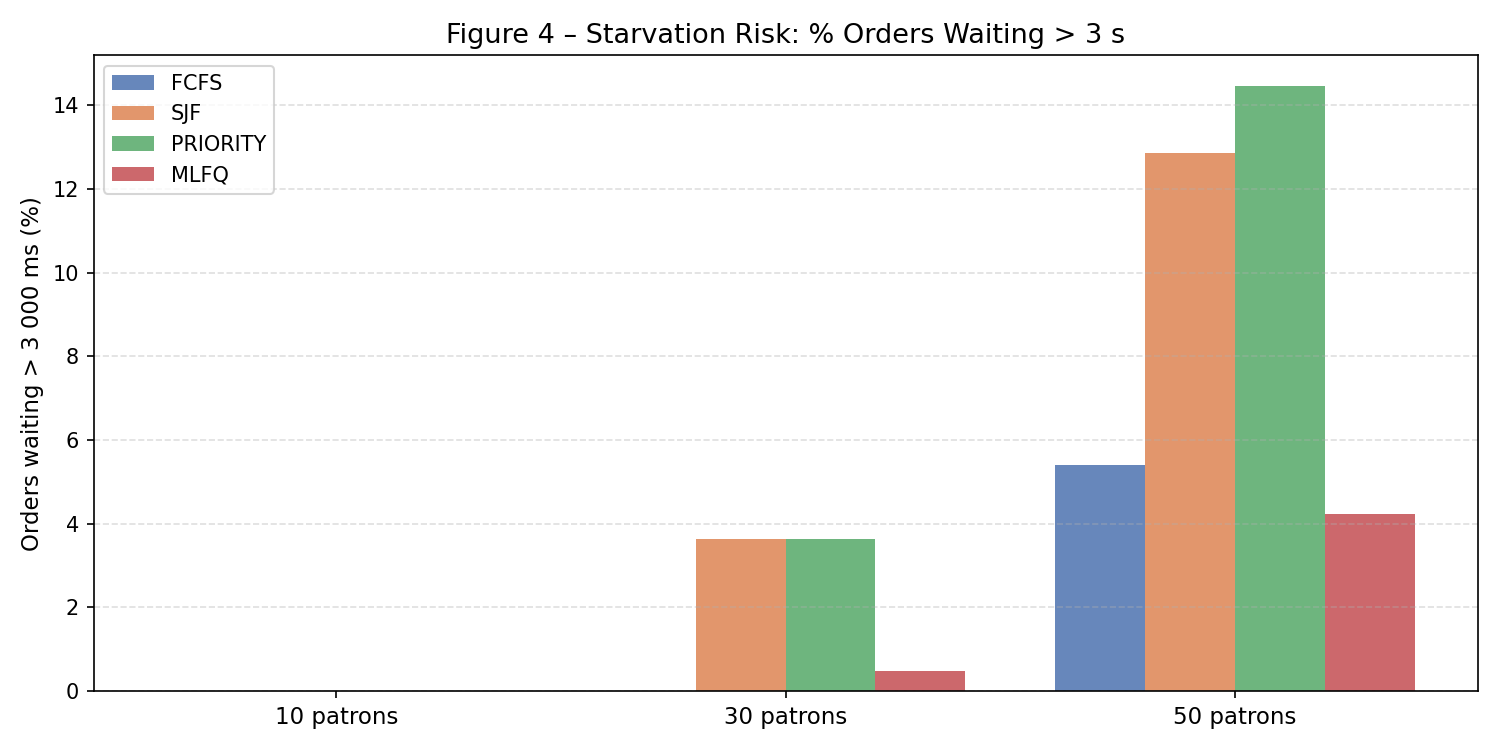
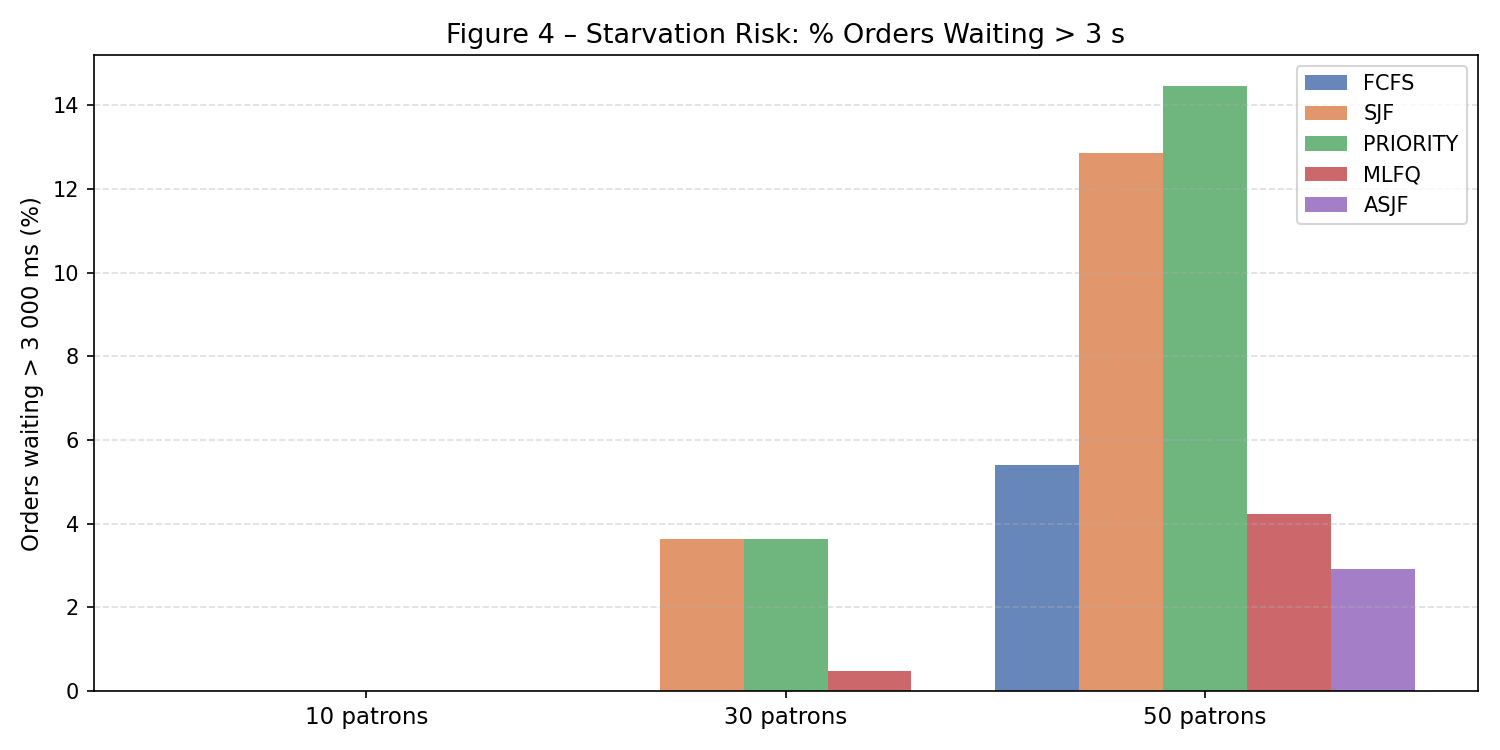
Fixed analyse.py to accomodate additional algorithm test data

diff --git a/analyse.py b/analyse.py
@@ -56,7 +56,7 @@ for patch, sched in zip(bp["boxes"], SCHEDULERS):
     patch.set_facecolor(COLORS[sched])
     patch.set_alpha(0.75)
 
-ax.set_xticks(range(1, 5))
+ax.set_xticks(range(1, len(SCHEDULERS) + 1))
 ax.set_xticklabels(SCHEDULERS, fontsize=12)
 ax.set_ylabel("Wait Time (ms)", fontsize=12)
 ax.set_title("Figure 1 – Wait Time Distribution per Scheduler (all runs)", fontsize=13)
@@ -83,7 +83,7 @@ for patch, sched in zip(bp["boxes"], SCHEDULERS):
     patch.set_facecolor(COLORS[sched])
     patch.set_alpha(0.75)
 
-ax.set_xticks(range(1, 5))
+ax.set_xticks(range(1, len(SCHEDULERS) + 1))
 ax.set_xticklabels(SCHEDULERS, fontsize=12)
 ax.set_ylabel("Turnaround Time (ms)", fontsize=12)
 ax.set_title("Figure 2 – Turnaround Time Distribution per Scheduler (all runs)", fontsize=13)
@@ -137,7 +137,7 @@ THRESHOLD = 3000   # ms
 fig, ax = plt.subplots(figsize=(10, 5))
 x      = np.arange(len(PATRON_COUNTS))
 width  = 0.2
-offsets = [-1.5, -0.5, 0.5, 1.5]
+offsets = [-2, -1, 0, 1, 2]
 
 for i, sched in enumerate(SCHEDULERS):
     pcts = []
